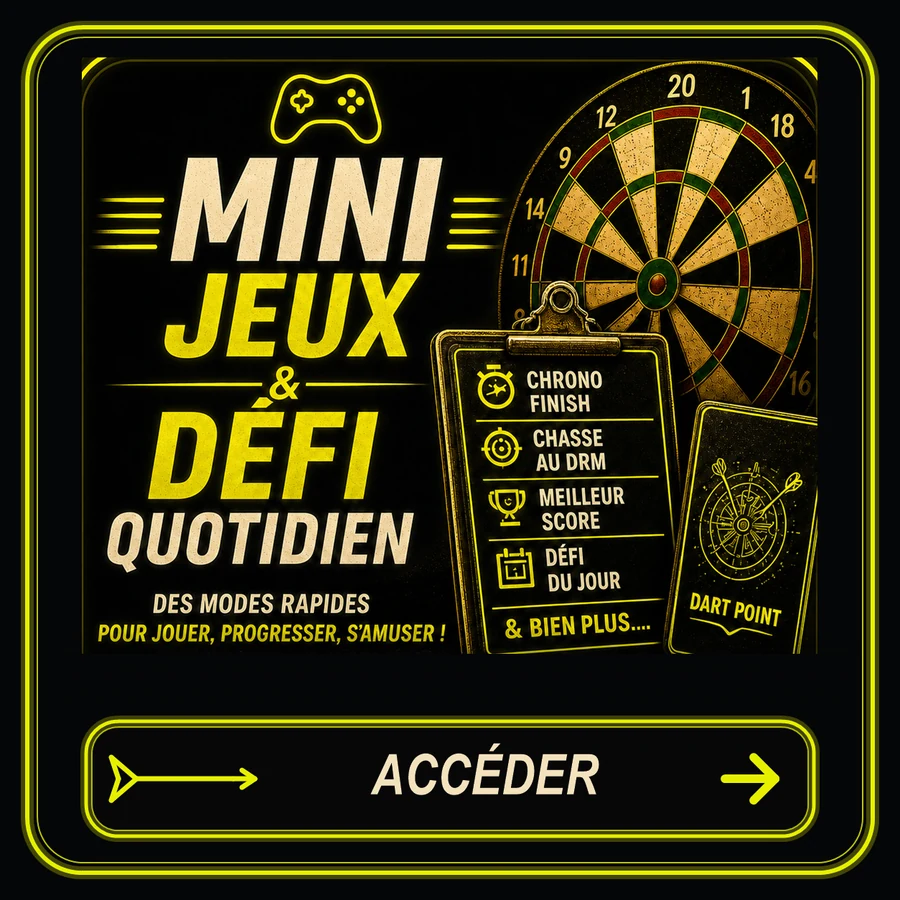
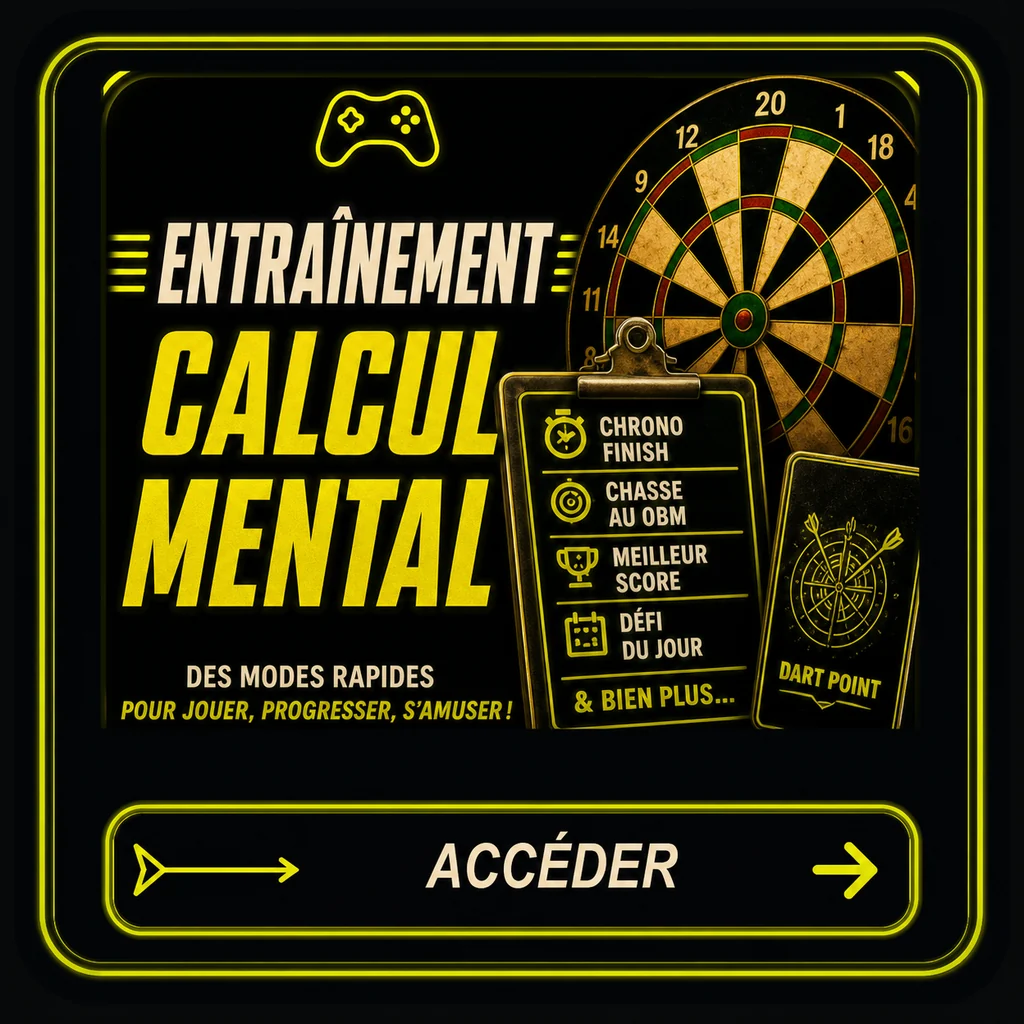
Clic fantôme : la fenêtre « publier ce match ? » se fermait toute seule
Bug signalé par Cyril : « quand on fait re-match, une fois sur deux il ne nous propose pas de
publier — et le dernier où je gagne enfin, il ne me l'a pas proposé ».

CAUSE. Tous les boutons du scoreur réagissent au `pointerdown` (dès que le doigt se POSE), y
compris « Valider Dxx » qui termine la partie (AppJeux.jsx:2441). La fenêtre de confirmation
s'ouvre donc pendant que le doigt est ENCORE POSÉ. Au relâchement, le navigateur envoie quand
même son `click`, visé là où se trouve le doigt : il tombait sur le voile de la fenêtre à peine
apparue, dont le onClick répond « non » (uiConfirm.jsx:108). Fermeture silencieuse.
D'où le « une fois sur deux » : quand le BOT gagne, la partie se termine sur un minuteur, aucun
doigt sur l'écran, la fenêtre s'affichait bien. Le taux d'échec = le taux de victoire du joueur.
ConfirmHost était le SEUL dialogue de la chaîne à écouter onClick — tous les autres écoutent
déjà pointerdown, signe que le piège avait déjà été rencontré ailleurs.

CORRECTIF. La fenêtre reste sourde aux CLICS pendant 400 ms (repondreClic). Échap n'est pas
concerné : un clavier ne produit pas de clic fantôme. Le garde s'auto-désactive si l'horodatage
manque, et protège d'un coup les dizaines de confirmer()/alerter() de l'appli.
Reproduit puis vérifié dans l'appli sur une vraie partie contre le bot de Cyr-180 : avant, la
fenêtre était avalée ; après, elle reste ouverte et répond normalement 0,5 s plus tard.
[…]

diff --git a/src/AppJeux.jsx b/src/AppJeux.jsx
@@ -102,7 +102,7 @@ const AnimCount = ({ target, duration=1400, prefix="", suffix="" }) => {
 const SB_URL_J = "https://secuyejzngzhnnuweuwm.supabase.co";
 const SB_KEY_J = "sb_publishable_kx6R8ywhyheCFwYMlYwSdA_L9MfqWyC";
 
-const FinScreen = ({ gagnant, duel, drixData, drixBreakdown=null, modeDuel, moyenne, demarrer, quitterPartie, onRejouer=null, joueurs: joueursData=[], manchesDetail=[] }) => {
+const FinScreen = ({ gagnant, duel, drixData, drixBreakdown=null, modeDuel, moyenne, demarrer, quitterPartie, onRejouer=null, joueurs: joueursData=[], manchesDetail=[], publierBot=null, etatPublication="attente" }) => {
   const [show, setShow] = useState(false);
   const [drixShow, setDrixShow] = useState(false);
   const [winnerPhoto, setWinnerPhoto] = useState(null);
@@ -618,6 +618,24 @@ const FinScreen = ({ gagnant, duel, drixData, drixBreakdown=null, modeDuel, moye
       {/* ════════════════════════════════════════════════════════════════ */}
       {/* 11. ACTIONS SECONDAIRES                                           */}
       {/* ════════════════════════════════════════════════════════════════ */}
+      {/* Publier au Comptoir — SEULEMENT en partie bot, et c'est un filet de sécurité :
+          une partie contre un bot n'est enregistrée nulle part (pas de duel, donc rien dans
+          l'historique), la publication est sa SEULE trace. Si la fenêtre de fin de partie a été
+          ratée, ou si on a répondu « Non » puis changé d'avis, tout se rejoue depuis ici tant
+          qu'on n'a pas quitté l'écran. */}
+      {publierBot && (
+        <button onClick={etatPublication === "attente" ? publierBot : undefined}
+          disabled={etatPublication !== "attente"}
+          style={{ width:"100%", padding:"13px", borderRadius:14, marginBottom:8,
+            border:`1px solid ${etatPublication === "publie" ? "#22c55e77" : "#f9731677"}`,
+            background: etatPublication === "publie" ? "#0a1a0a" : "linear-gradient(135deg,#1a0f00,#241300)",
+            color: etatPublication === "publie" ? "#22c55e" : "#f97316",
+            fontWeight:800, fontSize:13, cursor: etatPublication === "attente" ? "pointer" : "default",
+            display:"flex", alignItems:"center", justifyContent:"center", gap:8, touchAction:"manipulation" }}>
+          <EmoIcon e={etatPublication === "publie" ? "✅" : "🍻"} size={16}/>
+          <span>{etatPublication === "publie" ? "Publié au Comptoir" : etatPublication === "envoi" ? "Publication…" : "Publier au Comptoir"}</span>
+        </button>
+      )}
       <div style={{ display:"grid", gridTemplateColumns:"1fr 1fr", gap:8 }}>
         <button onClick={()=>setShowStats(true)} style={{ padding:"11px 6px", borderRadius:12, border:"1px solid #22c55e44", fontWeight:700, fontSize:12, cursor:"pointer", background:"#0a1a0a", color:"#22c55e", display:"flex", flexDirection:"column", alignItems:"center", gap:3 }}>
           <EmoIcon e="📊" size={16}/>
@@ -924,6 +942,25 @@ export const Scoreur = ({ duel = null, drixData = null, onDuelTermine = null, se
   const [loadingBot, setLoadingBot]   = useState(null); // id de l'ami en cours de préparation
   const [botPreparing, setBotPreparing] = useState(!!initBotAmiId); // entrée directe « Affronte son bot » depuis une fiche joueur
   const botXpRef = useRef(false);                       // évite de créditer l'XP deux fois
+  // Publication du match bot au Comptoir : la charge utile est gardée pour que l'écran de fin
+  // puisse la renvoyer, la fenêtre de confirmation n'étant plus la seule occasion.
+  const [postBot, setPostBot] = useState(null);
+  const [etatPostBot, setEtatPostBot] = useState("attente"); // attente | envoi | publie
+  const postBotRef = useRef(null); postBotRef.current = postBot;   // pour ne dépendre d'aucun rendu
+  const etatPostRef = useRef("attente"); etatPostRef.current = etatPostBot;
+  // Envoie le match bot au Comptoir. Appelée soit par la fenêtre de fin de partie, soit par le
+  // bouton de l'écran de fin — d'où le garde : on ne publie jamais le même match deux fois.
+  const publierPostBot = (charge) => {
+    const p = charge || postBotRef.current;
+    if (!p || !joueur?.id || etatPostRef.current !== "attente") return;
+    setEtatPostBot("envoi"); etatPostRef.current = "envoi";
+    fetch(`${SB_URL}/rest/v1/wall_posts`, {
+      method: "POST",
+      headers: { apikey: SB_KEY, Authorization: `Bearer ${SB_KEY}`, "Content-Type": "application/json", Prefer: "return=minimal" },
+      body: JSON.stringify({ joueur_id: joueur.id, joueur_pseudo: joueur.pseudo, joueur_photo: joueur.photo || null, contenu: `__DUEL__|${JSON.stringify(p)}`, date: Date.now() }),
+    }).then(() => { setEtatPostBot("publie"); etatPostRef.current = "publie"; window.dpToast?.("Match publié au Comptoir 🍻", "success"); })
+      .catch(() => { setEtatPostBot("attente"); etatPostRef.current = "attente"; window.dpToast?.("Publication impossible — réessaie", "error"); });
+  };
   const [mancheEnCours, setMancheEnCours] = useState(resume?.mancheEnCours ?? 0); // 0-based
   const [gagnant, setGagnant] = useState(null);
   const [resultEnregistre, setResultEnregistre] = useState(false);
@@ -1145,6 +1182,10 @@ export const Scoreur = ({ duel = null, drixData = null, onDuelTermine = null, se
     setManchesHistory([]);
     setMancheStart({ vol:Array(n).fill(0), pts:Array(n).fill(0), nbtours:Array(n).fill(0), flechettes:Array(n).fill(0) });
     botXpRef.current = false; // chaque nouvelle partie bot peut re-créditer l'XP (rejeu contre le même bot)
+    // Remise à zéro de la publication : sans ça, la revanche afficherait « Publié au Comptoir »
+    // pour le match PRÉCÉDENT, et le bouton refuserait d'envoyer le nouveau.
+    setPostBot(null); postBotRef.current = null;
+    setEtatPostBot("attente"); etatPostRef.current = "attente";
     setEtape("jeu");
   };
 
@@ -1846,15 +1887,12 @@ export const Scoreur = ({ duel = null, drixData = null, onDuelTermine = null, se
           loser:  { nom: loserJ?.nom,  nbManches: loserJ?.manchesGagnees || 0,  total: 0, elo: 0, xp: humainGagne ? 0 : delta, xpLines: humainGagne ? [] : xpLinesHum, moy: moyOf(loserJ), photo: photoDe(loserJ) },
           manches: manchesHistory || [],
         };
-        const publierAuComptoir = () => fetch(`${SB_URL}/rest/v1/wall_posts`, {
-          method: "POST",
-          headers: { apikey: SB_KEY, Authorization: `Bearer ${SB_KEY}`, "Content-Type": "application/json", Prefer: "return=minimal" },
-          body: JSON.stringify({ joueur_id: joueur.id, joueur_pseudo: joueur.pseudo, joueur_photo: joueur.photo || null, contenu: `__DUEL__|${JSON.stringify(duelPost)}`, date: Date.now() }),
-        }).then(() => window.dpToast?.("Match publié au Comptoir 🍻", "success"))
-          .catch(() => window.dpToast?.("Publication impossible pour l'instant", "error"));
-
+        // La charge utile est mise DE CÔTÉ, pas seulement capturée dans cette fonction : le bouton
+        // « Publier au Comptoir » de l'écran de fin doit pouvoir la renvoyer plus tard, si la
+        // fenêtre a été ratée ou si le joueur change d'avis après avoir dit « Non ».
+        setPostBot(duelPost);
         confirmer("Veux-tu publier ce match sur le Comptoir ?", { ok: "Publier", annuler: "Non" })
-          .then((oui) => { if (oui) publierAuComptoir(); });
+          .then((oui) => { if (oui) publierPostBot(duelPost); });
       }
     }
     // eslint-disable-next-line react-hooks/exhaustive-deps
@@ -2156,6 +2194,8 @@ export const Scoreur = ({ duel = null, drixData = null, onDuelTermine = null, se
       onRejouer={botPseudo ? rejouerBot : onRejouer}
       joueurs={joueurs}
       manchesDetail={manchesHistory}
+      publierBot={postBot ? () => publierPostBot() : null}
+      etatPublication={etatPostBot}
     />
   );
 

diff --git a/src/uiConfirm.jsx b/src/uiConfirm.jsx
@@ -61,6 +61,7 @@ export function ConfirmHost() {
   const [demande, setDemande] = useState(null);   // { message, options }
   const repondreRef = useRef(null);               // resolve de la promesse en cours
   const boutonRef = useRef(null);
+  const ouvertARef = useRef(0);                   // instant d'ouverture (anti-clic fantôme)
 
   // Branchement du point d'entrée global, une seule fois.
   useEffect(() => {
@@ -69,6 +70,7 @@ export function ConfirmHost() {
         // Si une question était déjà ouverte, on y répond « non » avant d'empiler.
         if (repondreRef.current) { const p = repondreRef.current; repondreRef.current = null; p(false); }
         repondreRef.current = resolve;
+        ouvertARef.current = (typeof performance !== "undefined" ? performance.now() : Date.now());
         setDemande({ message, options: options || {} });
       });
     return () => { _ouvrir = null; };
@@ -80,6 +82,21 @@ export function ConfirmHost() {
     setDemande(null);
     if (p) p(valeur);
   }, []);
+
+  // ⚠ CLIC FANTÔME — la cause du bug « il ne me propose pas de publier » (signalé le 07/08/2026).
+  // Tous les boutons du scoreur réagissent au `pointerdown` (au moment où le doigt se POSE) pour
+  // rester réactifs. Quand ce bouton termine la partie, la question « publier ce match ? » s'ouvre
+  // pendant que le doigt est ENCORE POSÉ. Au relâchement, le navigateur envoie quand même son
+  // `click`, visé là où le doigt se trouve — donc sur cette fenêtre à peine apparue, qui répondait
+  // « Non » toute seule sans que personne ne la voie. D'où l'asymétrie : quand le BOT gagne, la
+  // partie se termine sur un minuteur, aucun doigt sur l'écran, et la fenêtre s'affichait bien.
+  // On reste donc sourd aux CLICS pendant 400 ms (la carte est encore en animation d'entrée).
+  // Échap n'est pas concerné : un clavier ne produit pas de clic fantôme.
+  const repondreClic = useCallback((valeur) => {
+    const t = (typeof performance !== "undefined" ? performance.now() : Date.now());
+    if (t - ouvertARef.current < 400) return;
+    repondre(valeur);
+  }, [repondre]);
 
   // Échap = annuler. Actif seulement quand la fenêtre est ouverte.
   useEffect(() => {
@@ -105,7 +122,7 @@ export function ConfirmHost() {
   return (
     <div
       role="alertdialog" aria-modal="true" aria-labelledby="dp-confirm-titre"
-      onClick={(e) => { if (e.target === e.currentTarget) repondre(false); }}
+      onClick={(e) => { if (e.target === e.currentTarget) repondreClic(false); }}
       style={{
         position: "fixed", inset: 0, zIndex: 100001,
         background: "rgba(0,0,0,0.72)", backdropFilter: "blur(4px)", WebkitBackdropFilter: "blur(4px)",
@@ -139,7 +156,7 @@ export function ConfirmHost() {
           {/* Un simple message (alerter) n'a qu'un bouton : pas de choix à faire. */}
           {!options.seulOk && (
           <button
-            ref={boutonRef} onClick={() => repondre(false)}
+            ref={boutonRef} onClick={() => repondreClic(false)}
             style={{
               flex: 1, minHeight: 46, background: "none", border: `1px solid ${CC.bord}`,
               color: CC.doux, borderRadius: 11, fontSize: 14, fontWeight: 700,
@@ -149,7 +166,7 @@ export function ConfirmHost() {
           )}
           <button
             ref={options.seulOk ? boutonRef : undefined}
-            onClick={() => repondre(true)}
+            onClick={() => repondreClic(true)}
             style={{
               flex: 1, minHeight: 46, background: couleur, border: "none",
               color: danger ? "#fff" : "#1a0d00", borderRadius: 11, fontSize: 14, fontWeight: 800,

diff --git a/src/App.jsx b/src/App.jsx
@@ -1769,7 +1769,9 @@ const HomeDashboard = ({ joueur, setJoueur, setPage, bars, defisCount, demandesA
           onClick={()=>setPage("communaute")}/>
         <ImgBtn src="/accueil/defi.webp"       label="Match DRIX et classement — joue tes matchs et grimpe au classement"
           onClick={()=>setPage("defi")} badge={defisCount}/>
-        <ImgBtn src="/accueil/mini-jeux.webp"  label="Mini jeux et défi quotidien — pour jouer, progresser et s'amuser"
+        {/* Le visuel dit désormais « Entraînement · Calcul mental » : `label` doit dire la même
+            chose, c'est lui que lisent les lecteurs d'écran puisque le texte est dans l'image. */}
+        <ImgBtn src="/accueil/mini-jeux.webp"  label="Entraînement et calcul mental — chrono finish, chasse au OBM, meilleur score, défi du jour"
           onClick={()=>setPage("jeux-sans")}/>
         {/* Remplace l'ancien bouton carré « Scoreur » : même destination, et il comble la
             case qui restait vide à droite de Mini jeux. */}
